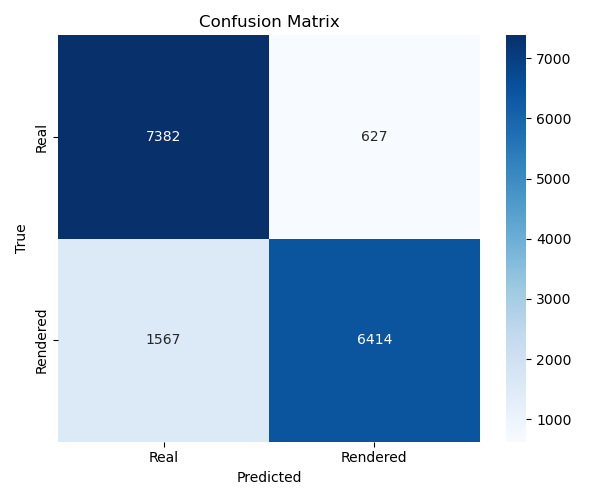
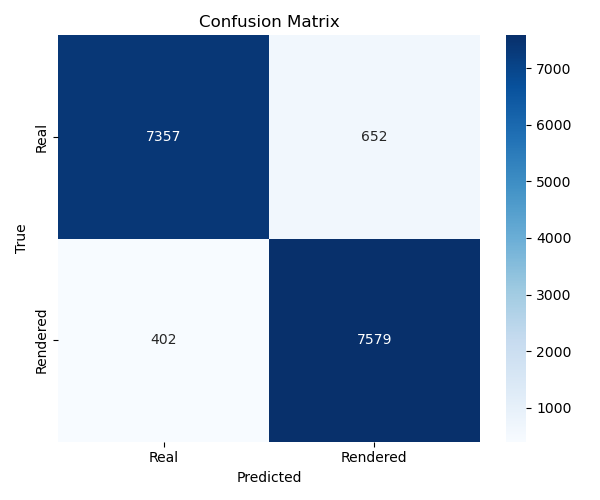
Updated to tiny for tuning

diff --git a/vit.py b/vit.py
@@ -173,7 +173,7 @@ class ViTTrainer:
         plt.show()
 
         # Classification Report
-        report = classification_report(all_labels, all_preds, target_names = ['Real', 'Rendered'], digits = 2)
+        report = classification_report(all_labels, all_preds, target_names = ['Real', 'Rendered'], digits = 4)
         print("Classification Report:\n")
         print(report)
 
@@ -194,7 +194,7 @@ if __name__ == "__main__":
         test_loader=test_loader,
         save_path='best_vit_model.pth',
         num_epochs=10,
-        lr=2e-5,
+        lr=2e-4,
         weight_decay=0.01
     )
 
